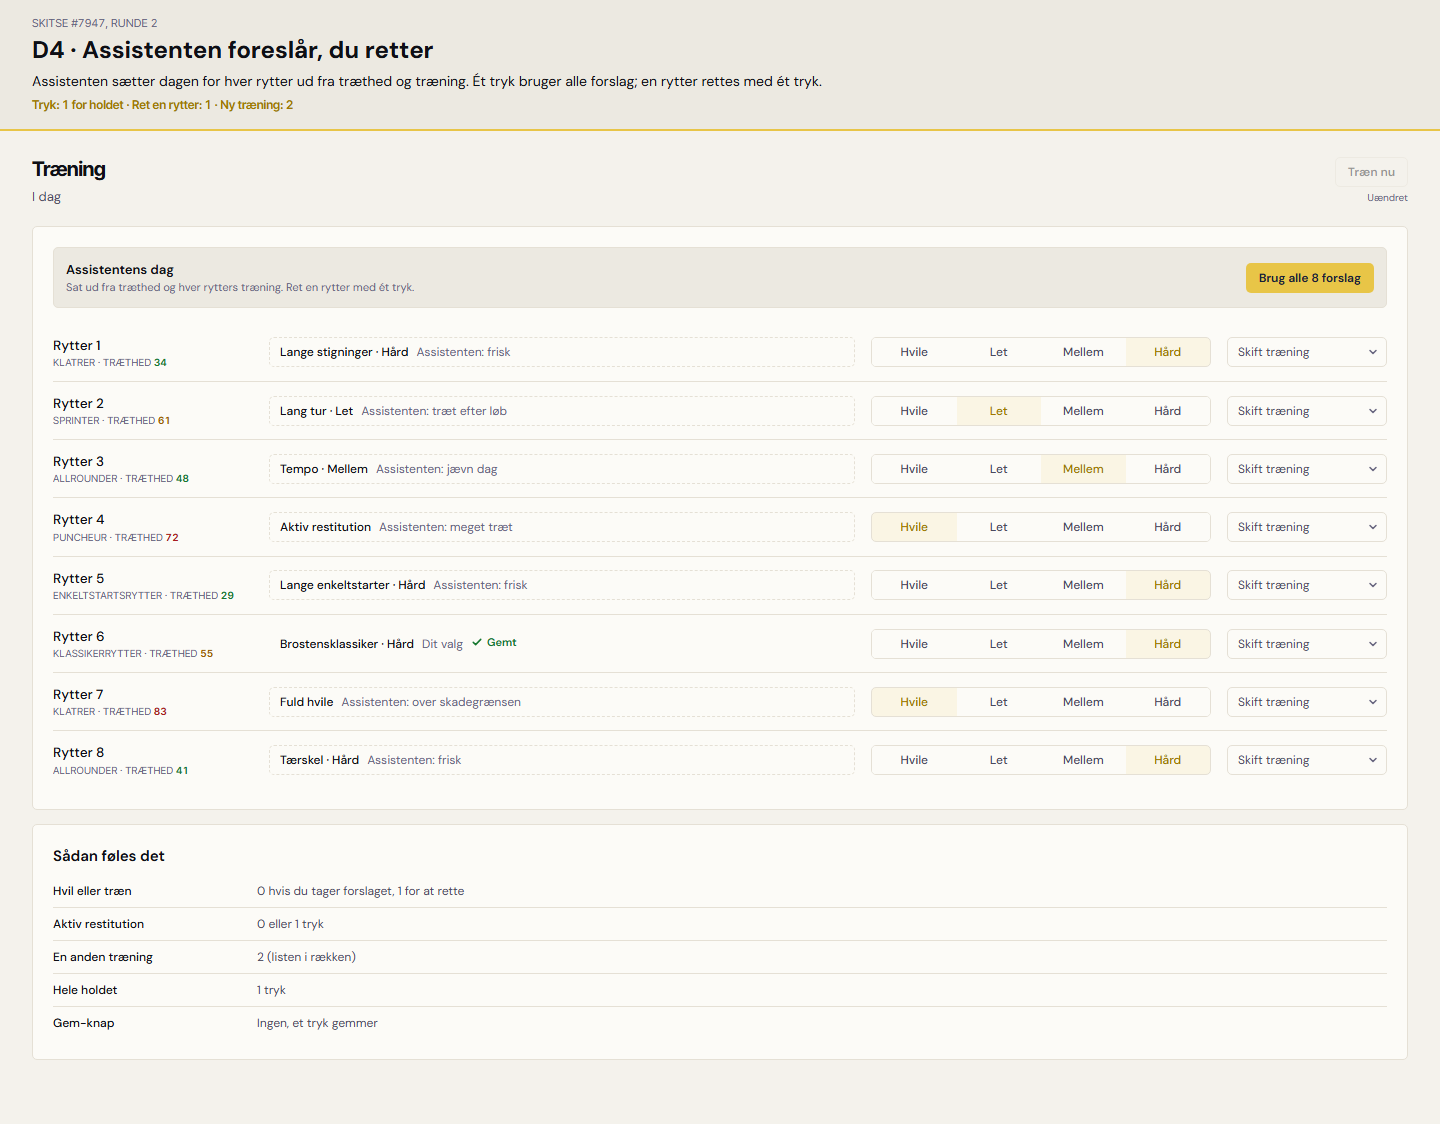
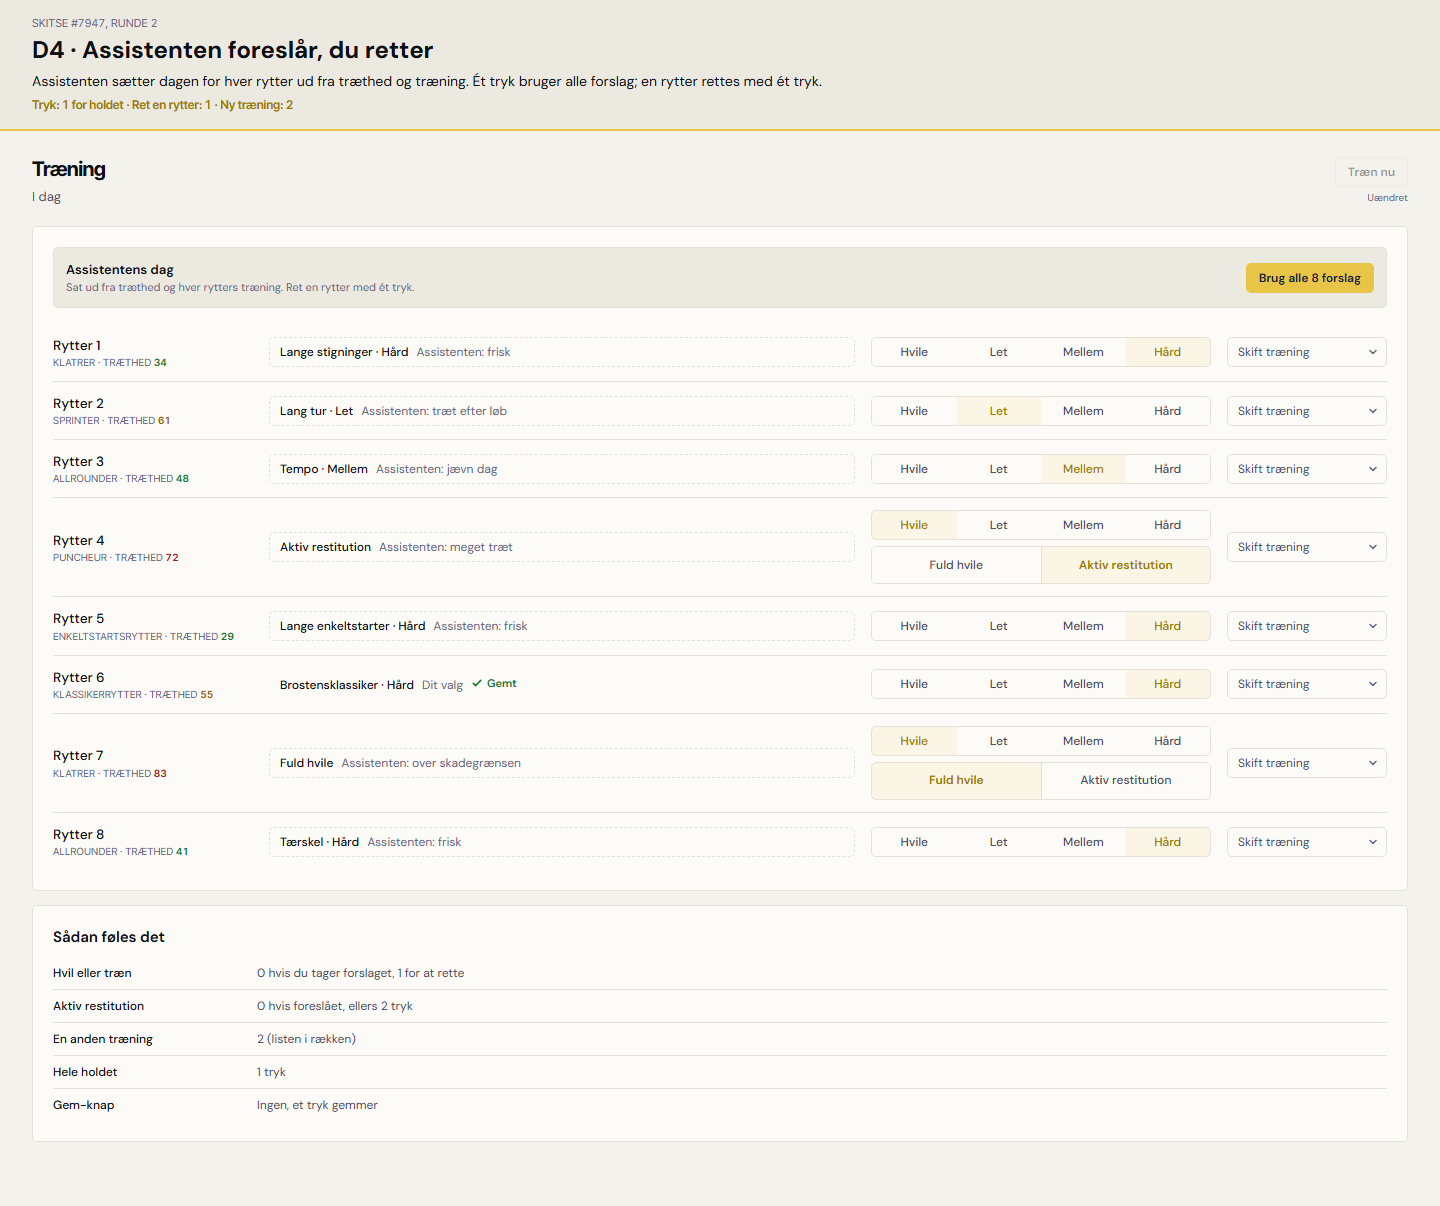
fix(7947): Codex-fund i skitsen: D3 egen traening som undtagelse, D4 bevarer valgt traening og har Fuld/Aktiv under Hvile (Refs #7947)

diff --git a/frontend/src/preview/sketches/7947/runde2/Round2.tsx b/frontend/src/preview/sketches/7947/runde2/Round2.tsx
@@ -370,6 +370,7 @@ function D3({ lang }: { lang: Lang }) {
   );
   // Undtagelser: hvem hviler i dag, og hvordan. Start: de to mest traette.
   const [resting, setResting] = useState<Record<string, "full" | "active">>({ r4: "active", r7: "full" });
+  const [custom, setCustom] = useState<Record<string, string>>({});
   const teamOpts = (["easy", "normal", "hard"] as Effort[]).map((e) => ({ value: e, label: effortName(lang, e) }));
   return (
     <>
@@ -382,7 +383,12 @@ function D3({ lang }: { lang: Lang }) {
         {RIDERS.map((r) => {
           const rest = resting[r.id];
           const basePlan: Plan = { focus: own[r.id], intensity: effortForSession(own[r.id]) };
-          const today = choiceForQuick(team as Quick, basePlan, r.suggest.hard);
+          // En traening valgt i listen er en undtagelse: den koeres paa sin egen
+          // indsats, ogsaa naar den ikke passer til holdets dag.
+          const isCustom = r.id in custom;
+          const today = isCustom
+            ? { session: custom[r.id], effort: effortForSession(custom[r.id]) }
+            : choiceForQuick(team as Quick, basePlan, r.suggest.hard);
           const toggle = () =>
             setResting((m) => {
               const n = { ...m };
@@ -402,7 +408,11 @@ function D3({ lang }: { lang: Lang }) {
               {c.restToday}
             </button>
           );
-          const pick = (s: string) => s && setOwn((m) => ({ ...m, [r.id]: s }));
+          const pick = (s: string) => {
+            if (!s) return;
+            setOwn((m) => ({ ...m, [r.id]: s }));
+            setCustom((m) => ({ ...m, [r.id]: s }));
+          };
           return (
             <li key={r.id} className="grid gap-2 py-3 lg:grid-cols-[200px_minmax(0,1fr)_150px_200px] lg:items-center lg:gap-4">
               <Head
@@ -425,7 +435,7 @@ function D3({ lang }: { lang: Lang }) {
                   <div className="flex items-center justify-between gap-2">
                     <span className="min-w-0">
                       <span className="font-medium text-cz-1">{sessionName(lang, today.session)}</span>
-                      <span className="text-cz-3"> · {effortName(lang, today.effort as Effort)} · {c.followsTeam}</span>
+                      <span className="text-cz-3"> · {effortName(lang, today.effort as Effort)} · {isCustom ? c.yours.toLowerCase() : c.followsTeam}</span>
                     </span>
                     <div className="lg:hidden">
                       <TrainingSelect lang={lang} value="" label={c.changeTraining} compact={c.change} onPick={pick} />
@@ -499,13 +509,23 @@ function D4({ lang }: { lang: Lang }) {
                 </span>
                 {settled && <Saved lang={lang} show />}
               </div>
-              <Segmented
-                label={`${c.rider} ${r.label}`}
-                value={effortOf(plan) ?? ""}
-                options={opts}
-                onChange={(e: string) => setMine((m) => ({ ...m, [r.id]: planForQuick(e as Quick, r.plan, fb) }))}
-                className="w-full [&>button]:flex-1"
-              />
+              <div className="flex min-w-0 flex-col gap-1.5">
+                <Segmented
+                  label={`${c.rider} ${r.label}`}
+                  value={effortOf(plan) ?? ""}
+                  options={opts}
+                  onChange={(e: string) => setMine((m) => ({ ...m, [r.id]: planForQuick(e as Quick, plan, fb) }))}
+                  className="w-full [&>button]:flex-1"
+                />
+                {effortOf(plan) === "rest" && (
+                  <Group
+                    items={[
+                      { key: "full", label: c.fullRest, on: !isActiveRecovery(plan), onClick: () => setMine((m) => ({ ...m, [r.id]: planForQuick("rest", plan, fb) })) },
+                      { key: "active", label: c.activeLong, on: isActiveRecovery(plan), onClick: () => setMine((m) => ({ ...m, [r.id]: planForQuick("active", plan, fb) })) },
+                    ]}
+                  />
+                )}
+              </div>
               <div className="hidden lg:block">
                 <TrainingSelect lang={lang} value="" label={c.changeTraining} onPick={pick} />
               </div>

diff --git a/frontend/src/preview/sketches/7947/runde2/copy2.ts b/frontend/src/preview/sketches/7947/runde2/copy2.ts
@@ -94,7 +94,7 @@ const en: Dict = {
     d1: ["1 tap", "1 tap", "2 (list in the row)", "Set for several, as today", "None, a tap saves"],
     d2: ["1 tap", "2 taps", "2 (Change, then pick)", "Set for several, as today", "None, a tap saves"],
     d3: ["1 tap for the team, 1 per rider who rests", "2 taps", "2 (list in the row)", "1 tap", "None, a tap saves"],
-    d4: ["0 if you accept, 1 to change", "0 or 1 tap", "2 (list in the row)", "1 tap", "None, a tap saves"],
+    d4: ["0 if you accept, 1 to change", "0 if suggested, otherwise 2 taps", "2 (list in the row)", "1 tap", "None, a tap saves"],
   },
   banners: {
     then: {
@@ -171,7 +171,7 @@ const da: Dict = {
     d1: ["1 tryk", "1 tryk", "2 (listen i rækken)", "Sæt for flere, som i dag", "Ingen, et tryk gemmer"],
     d2: ["1 tryk", "2 tryk", "2 (Skift, så vælg)", "Sæt for flere, som i dag", "Ingen, et tryk gemmer"],
     d3: ["1 tryk for holdet, 1 pr. rytter der hviler", "2 tryk", "2 (listen i rækken)", "1 tryk", "Ingen, et tryk gemmer"],
-    d4: ["0 hvis du tager forslaget, 1 for at rette", "0 eller 1 tryk", "2 (listen i rækken)", "1 tryk", "Ingen, et tryk gemmer"],
+    d4: ["0 hvis du tager forslaget, 1 for at rette", "0 hvis foreslået, ellers 2 tryk", "2 (listen i rækken)", "1 tryk", "Ingen, et tryk gemmer"],
   },
   banners: {
     then: {
